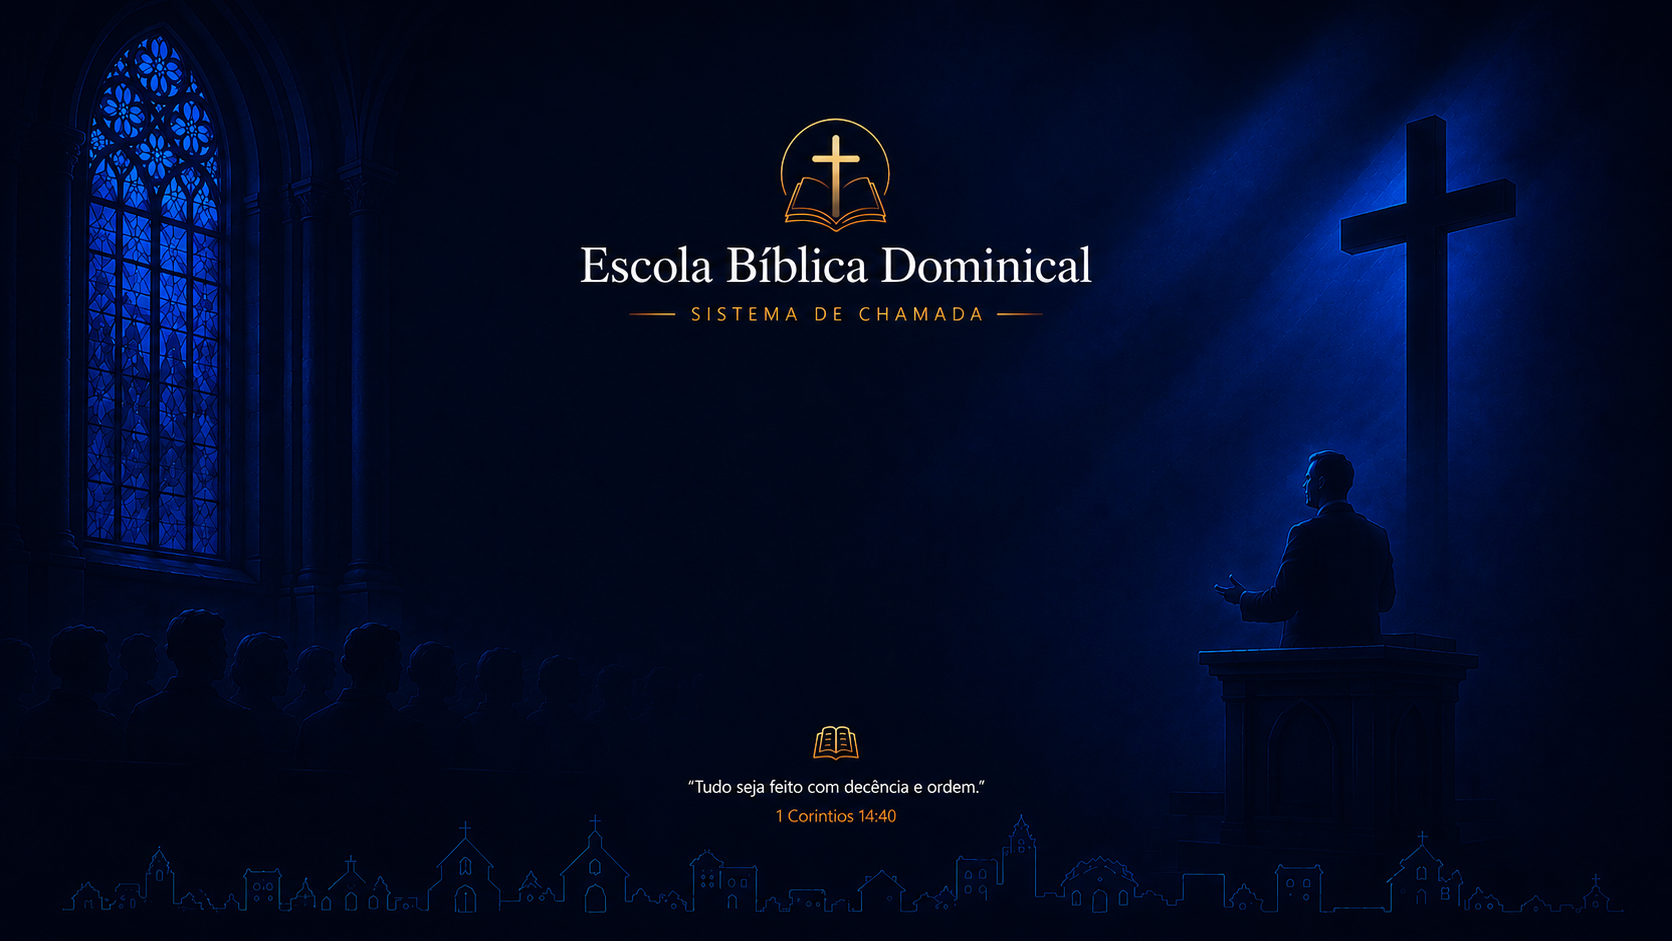
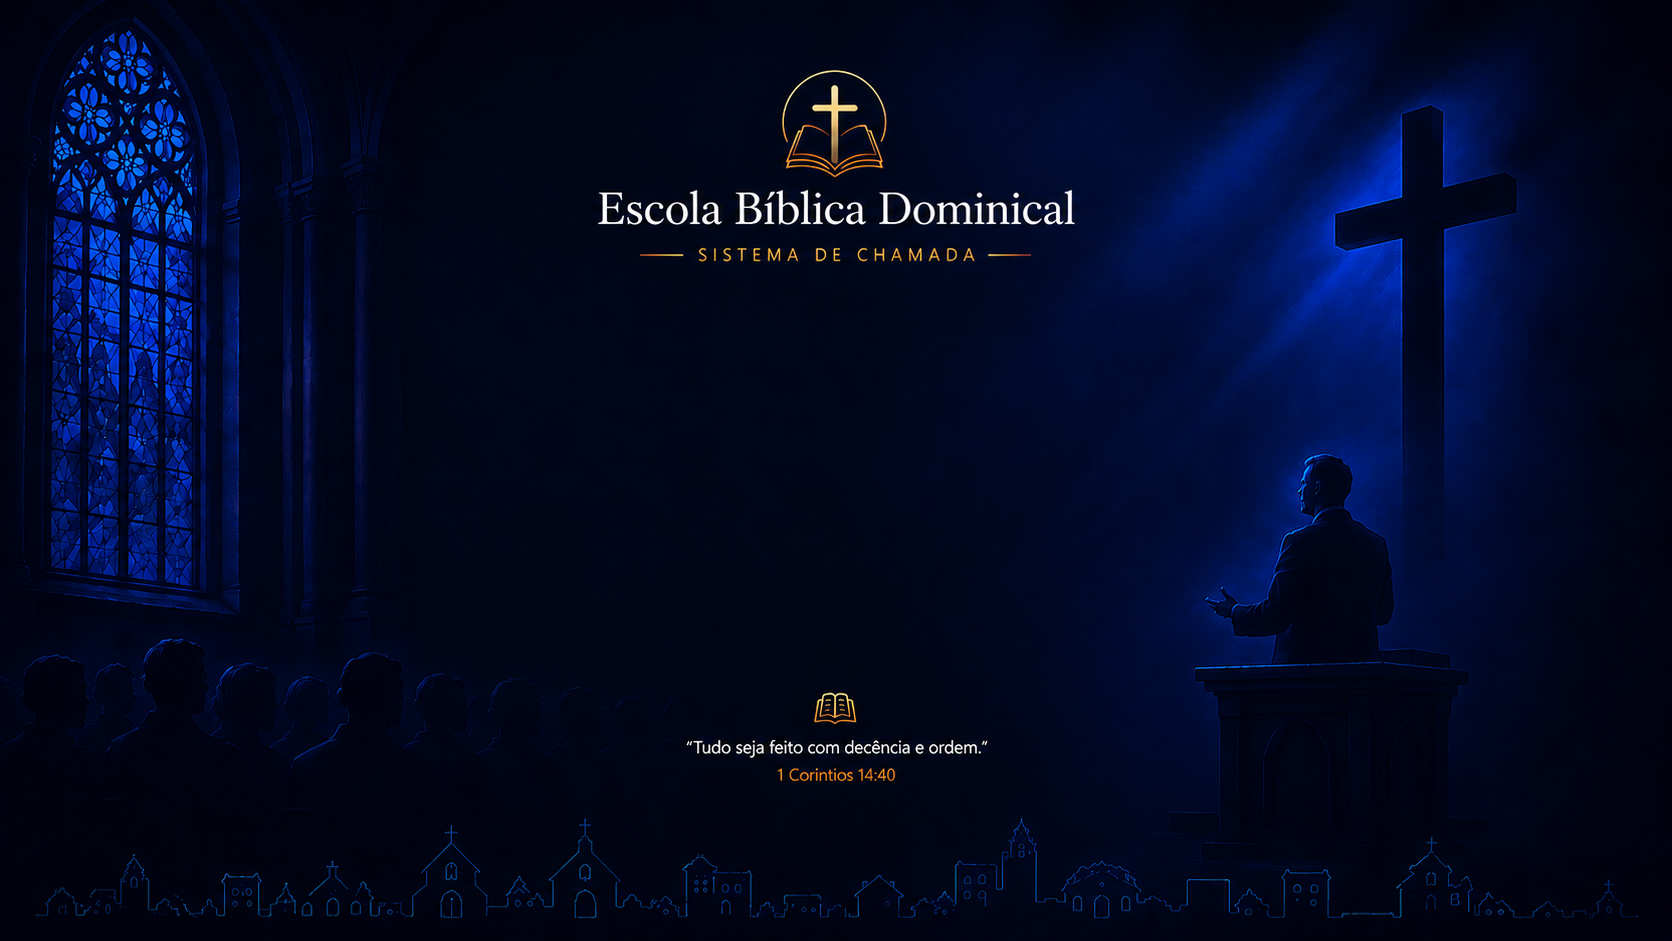
chore: nova imagem desktop com elementos mais compactos, background centralizado

diff --git a/src/index.css b/src/index.css
@@ -16,7 +16,7 @@
   inset: 0;
   background-image: url('/bg-login.png');
   background-size: cover;
-  background-position: top center;
+  background-position: center;
   filter: brightness(1.25);
   z-index: 0;
 }